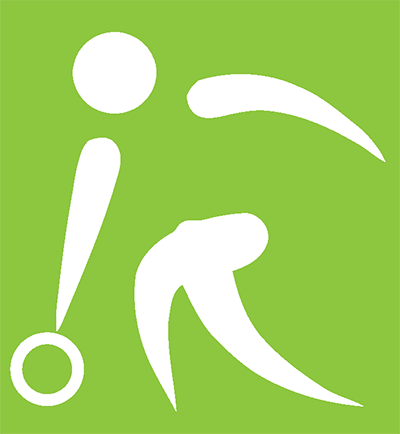
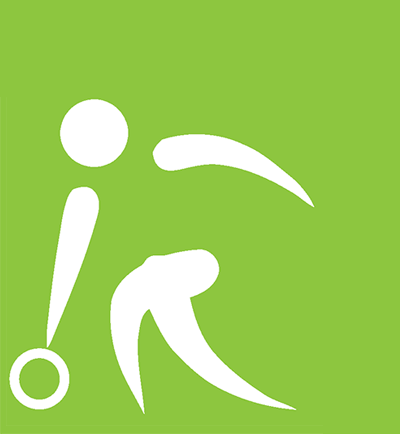
curtain graphics: changed position

diff --git a/css/projektathleten.css b/css/projektathleten.css
@@ -45,7 +45,7 @@ body{
 	height: 100%;
 	position: fixed;
 	background-color: #8dc63f;
-	background-position: center left;
+	background-position: 0% 20%;
 	background-repeat: no-repeat;
 	right: 0;
 	z-index: 1;
